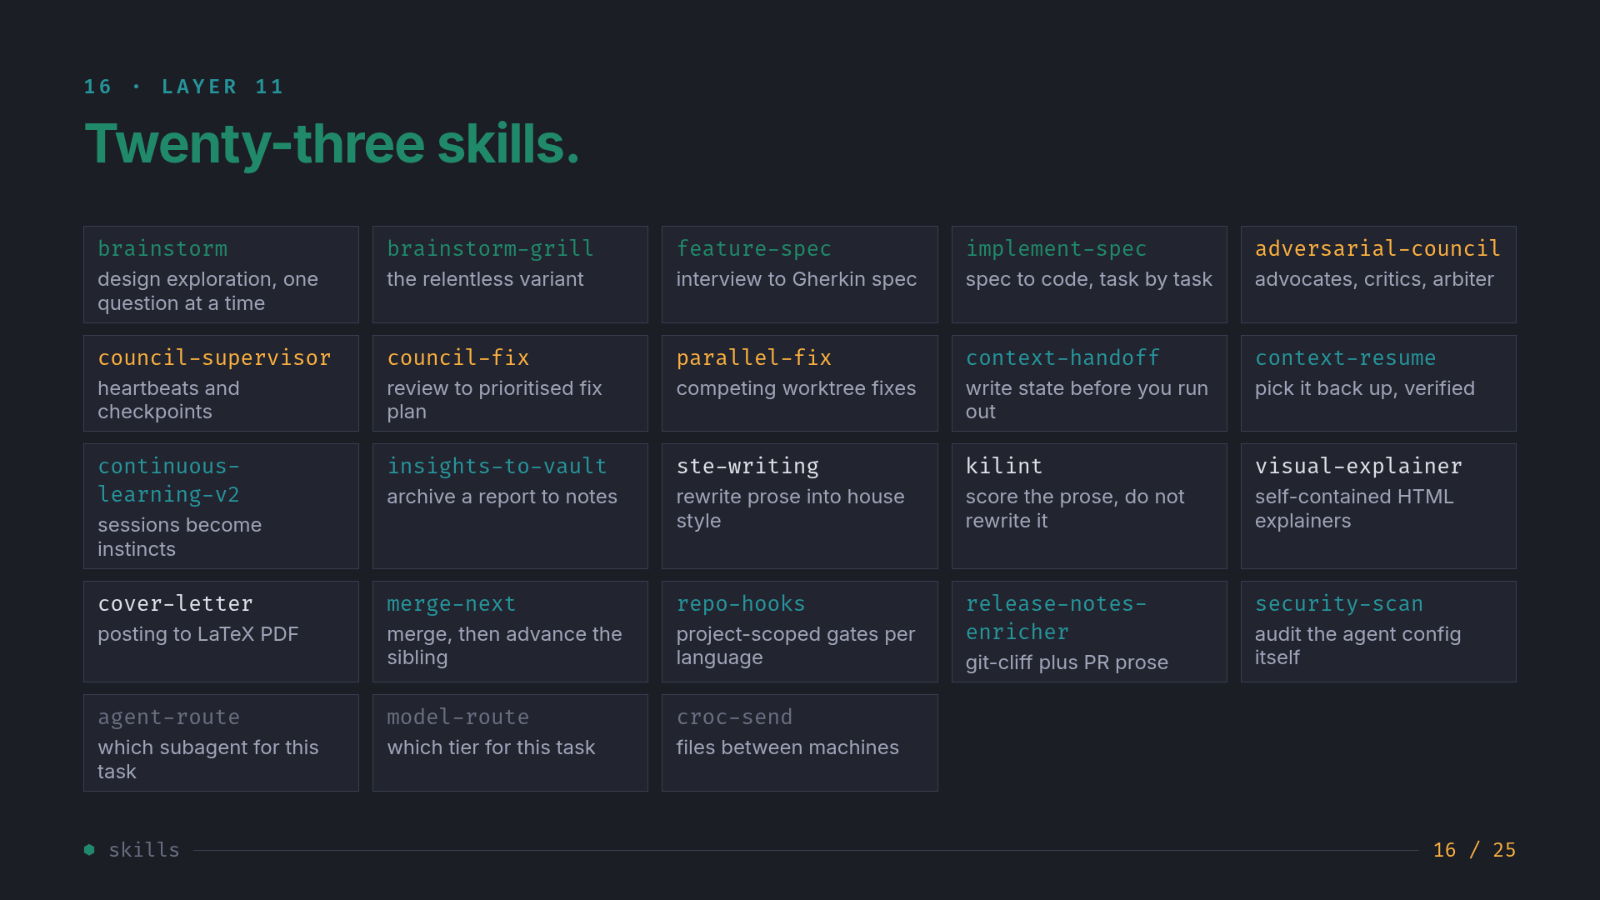
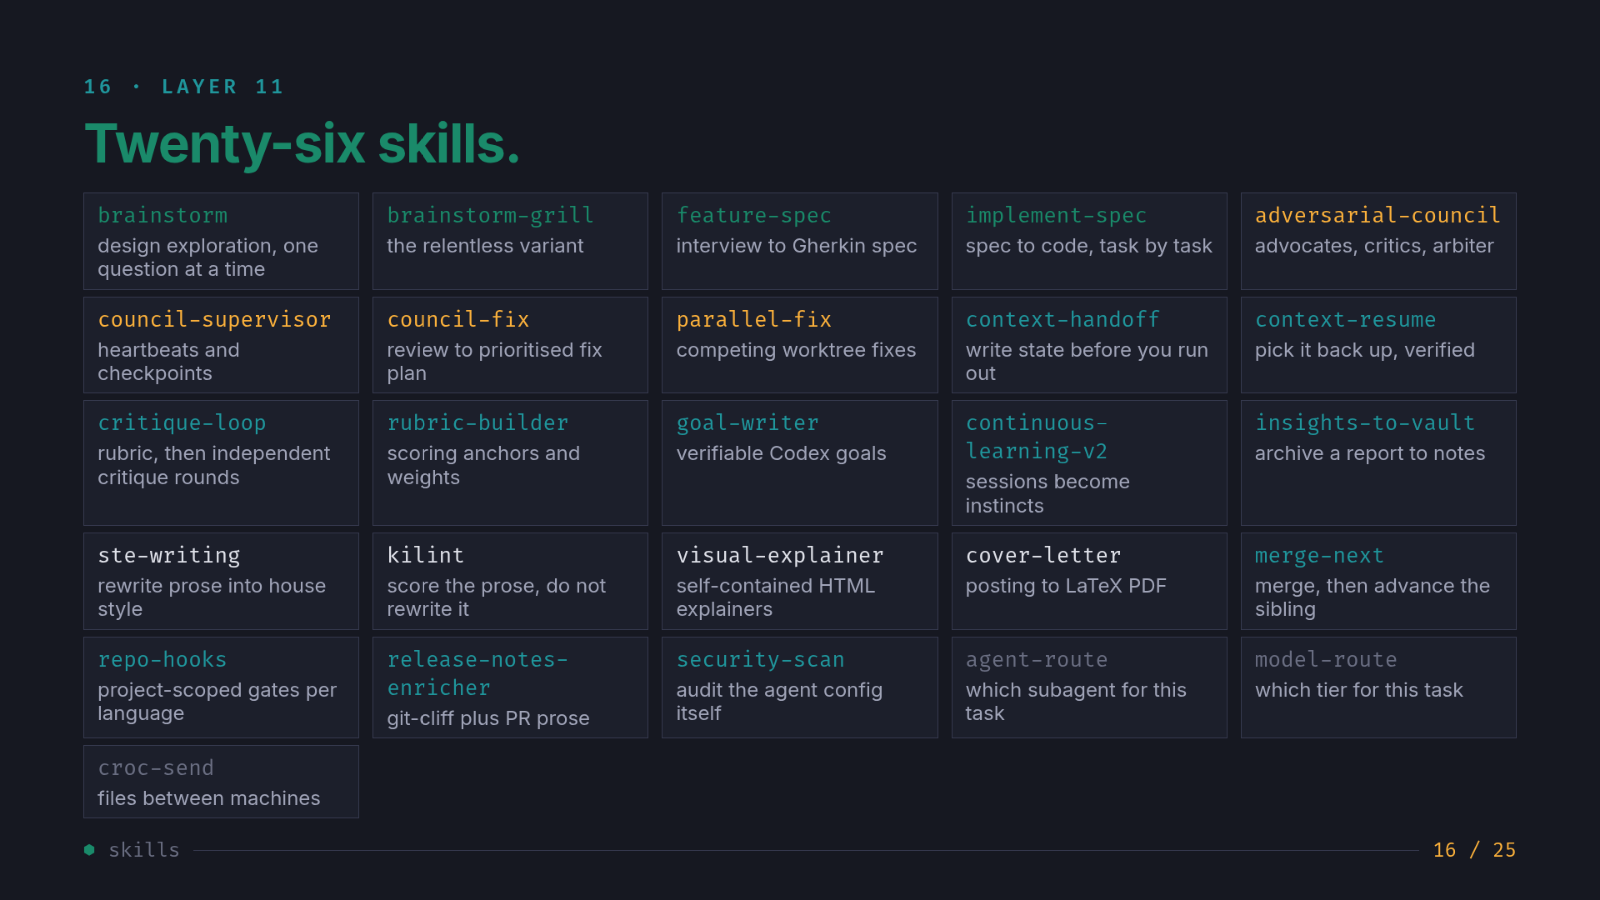
docs(deck): show 26 skills on the title and skills slides
The deck said 23 skills. The repo has 26.
Update the count on slide 1 and slide 16, and the speaker notes.
Add critique-loop, rubric-builder and goal-writer to the skills grid.
Tighten the grid gap so six rows fit.

diff --git a/docs/decks/agentic-workflow/index.html b/docs/decks/agentic-workflow/index.html
@@ -24,7 +24,7 @@ deck-stage:not(:defined){visibility:hidden}
   <div style="flex:1;justify-content:center;font-size:34px;color:var(--ck-fg2);margin-top:28px;max-width:1180px;line-height:1.45;text-wrap:pretty">Fifteen layers. Each one swaps on its own. Take what you want, leave the rest.</div>
   <div style="position:absolute;left:100px;bottom:150px;display:flex;gap:40px;font-family:var(--ck-font-mono);font-size:26px;color:var(--ck-fg2)">
     <span>15 <b style="color:var(--ck-blonde);font-weight:700">LAYERS</b></span>
-    <span>23 <b style="color:var(--ck-blonde);font-weight:700">SKILLS</b></span>
+    <span>26 <b style="color:var(--ck-blonde);font-weight:700">SKILLS</b></span>
     <span>5 <b style="color:var(--ck-blonde);font-weight:700">HARNESSES</b></span>
     <span>0 <b style="color:var(--ck-blonde);font-weight:700">MANDATORY</b></span>
   </div>
@@ -407,10 +407,10 @@ npm run test -- --watch=false
   </div>
 </section>
 
-<section data-label="Skills" data-screen-label="16 Skills" data-speaker-notes="So, twenty-three skills. Each one is basically a directory with a SKILL.md that says when to trigger. They install by symlink and they are independent, so you can take brainstorm and leave the councils, or the reverse. Most of these came from my own frustrations, honestly." style="background:var(--ck-base);color:var(--ck-fg1);padding:88px 100px 96px;box-sizing:border-box;display:flex;flex-direction:column;font-family:var(--ck-font-ui);overflow:hidden">
+<section data-label="Skills" data-screen-label="16 Skills" data-speaker-notes="So, twenty-six skills. Each one is basically a directory with a SKILL.md that says when to trigger. They install by symlink and they are independent, so you can take brainstorm and leave the councils, or the reverse. Most of these came from my own frustrations, honestly." style="background:var(--ck-base);color:var(--ck-fg1);padding:88px 100px 96px;box-sizing:border-box;display:flex;flex-direction:column;font-family:var(--ck-font-ui);overflow:hidden">
   <div style="font-family:var(--ck-font-mono);font-size:24px;font-weight:600;letter-spacing:.18em;text-transform:uppercase;color:var(--ck-teal-lt)">16 · Layer 11</div>
-  <h2 style="font-size:64px;font-weight:700;color:var(--ck-emerald-lt);letter-spacing:-0.02em;line-height:1.05;margin:18px 0 32px">Twenty-three skills.</h2>
-  <div style="flex:1;align-content:center;display:grid;grid-template-columns:repeat(5,1fr);gap:14px 16px">
+  <h2 style="font-size:64px;font-weight:700;color:var(--ck-emerald-lt);letter-spacing:-0.02em;line-height:1.05;margin:18px 0 24px">Twenty-six skills.</h2>
+  <div style="flex:1;align-content:center;display:grid;grid-template-columns:repeat(5,1fr);gap:8px 16px">
     <div style="background:var(--ck-surface);border:1px solid var(--ck-border);padding:9px 16px;display:flex;flex-direction:column;gap:6px"><div style="font-family:var(--ck-font-mono);font-size:26px;color:var(--ck-emerald-lt)">brainstorm</div><div style="font-size:24px;color:var(--ck-fg2);line-height:1.18">design exploration, one question at a time</div></div>
     <div style="background:var(--ck-surface);border:1px solid var(--ck-border);padding:9px 16px;display:flex;flex-direction:column;gap:6px"><div style="font-family:var(--ck-font-mono);font-size:26px;color:var(--ck-emerald-lt)">brainstorm-grill</div><div style="font-size:24px;color:var(--ck-fg2);line-height:1.18">the relentless variant</div></div>
     <div style="background:var(--ck-surface);border:1px solid var(--ck-border);padding:9px 16px;display:flex;flex-direction:column;gap:6px"><div style="font-family:var(--ck-font-mono);font-size:26px;color:var(--ck-emerald-lt)">feature-spec</div><div style="font-size:24px;color:var(--ck-fg2);line-height:1.18">interview to Gherkin spec</div></div>
@@ -421,6 +421,9 @@ npm run test -- --watch=false
     <div style="background:var(--ck-surface);border:1px solid var(--ck-border);padding:9px 16px;display:flex;flex-direction:column;gap:6px"><div style="font-family:var(--ck-font-mono);font-size:26px;color:var(--ck-blonde)">parallel-fix</div><div style="font-size:24px;color:var(--ck-fg2);line-height:1.18">competing worktree fixes</div></div>
     <div style="background:var(--ck-surface);border:1px solid var(--ck-border);padding:9px 16px;display:flex;flex-direction:column;gap:6px"><div style="font-family:var(--ck-font-mono);font-size:26px;color:var(--ck-teal-lt)">context-handoff</div><div style="font-size:24px;color:var(--ck-fg2);line-height:1.18">write state before you run out</div></div>
     <div style="background:var(--ck-surface);border:1px solid var(--ck-border);padding:9px 16px;display:flex;flex-direction:column;gap:6px"><div style="font-family:var(--ck-font-mono);font-size:26px;color:var(--ck-teal-lt)">context-resume</div><div style="font-size:24px;color:var(--ck-fg2);line-height:1.18">pick it back up, verified</div></div>
+    <div style="background:var(--ck-surface);border:1px solid var(--ck-border);padding:9px 16px;display:flex;flex-direction:column;gap:6px"><div style="font-family:var(--ck-font-mono);font-size:26px;color:var(--ck-teal-lt)">critique-loop</div><div style="font-size:24px;color:var(--ck-fg2);line-height:1.18">rubric, then independent critique rounds</div></div>
+    <div style="background:var(--ck-surface);border:1px solid var(--ck-border);padding:9px 16px;display:flex;flex-direction:column;gap:6px"><div style="font-family:var(--ck-font-mono);font-size:26px;color:var(--ck-teal-lt)">rubric-builder</div><div style="font-size:24px;color:var(--ck-fg2);line-height:1.18">scoring anchors and weights</div></div>
+    <div style="background:var(--ck-surface);border:1px solid var(--ck-border);padding:9px 16px;display:flex;flex-direction:column;gap:6px"><div style="font-family:var(--ck-font-mono);font-size:26px;color:var(--ck-teal-lt)">goal-writer</div><div style="font-size:24px;color:var(--ck-fg2);line-height:1.18">verifiable Codex goals</div></div>
     <div style="background:var(--ck-surface);border:1px solid var(--ck-border);padding:9px 16px;display:flex;flex-direction:column;gap:6px"><div style="font-family:var(--ck-font-mono);font-size:26px;color:var(--ck-teal-lt)">continuous-learning-v2</div><div style="font-size:24px;color:var(--ck-fg2);line-height:1.18">sessions become instincts</div></div>
     <div style="background:var(--ck-surface);border:1px solid var(--ck-border);padding:9px 16px;display:flex;flex-direction:column;gap:6px"><div style="font-family:var(--ck-font-mono);font-size:26px;color:var(--ck-teal-lt)">insights-to-vault</div><div style="font-size:24px;color:var(--ck-fg2);line-height:1.18">archive a report to notes</div></div>
     <div style="background:var(--ck-surface);border:1px solid var(--ck-border);padding:9px 16px;display:flex;flex-direction:column;gap:6px"><div style="font-family:var(--ck-font-mono);font-size:26px;color:var(--ck-fg1)">ste-writing</div><div style="font-size:24px;color:var(--ck-fg2);line-height:1.18">rewrite prose into house style</div></div>
